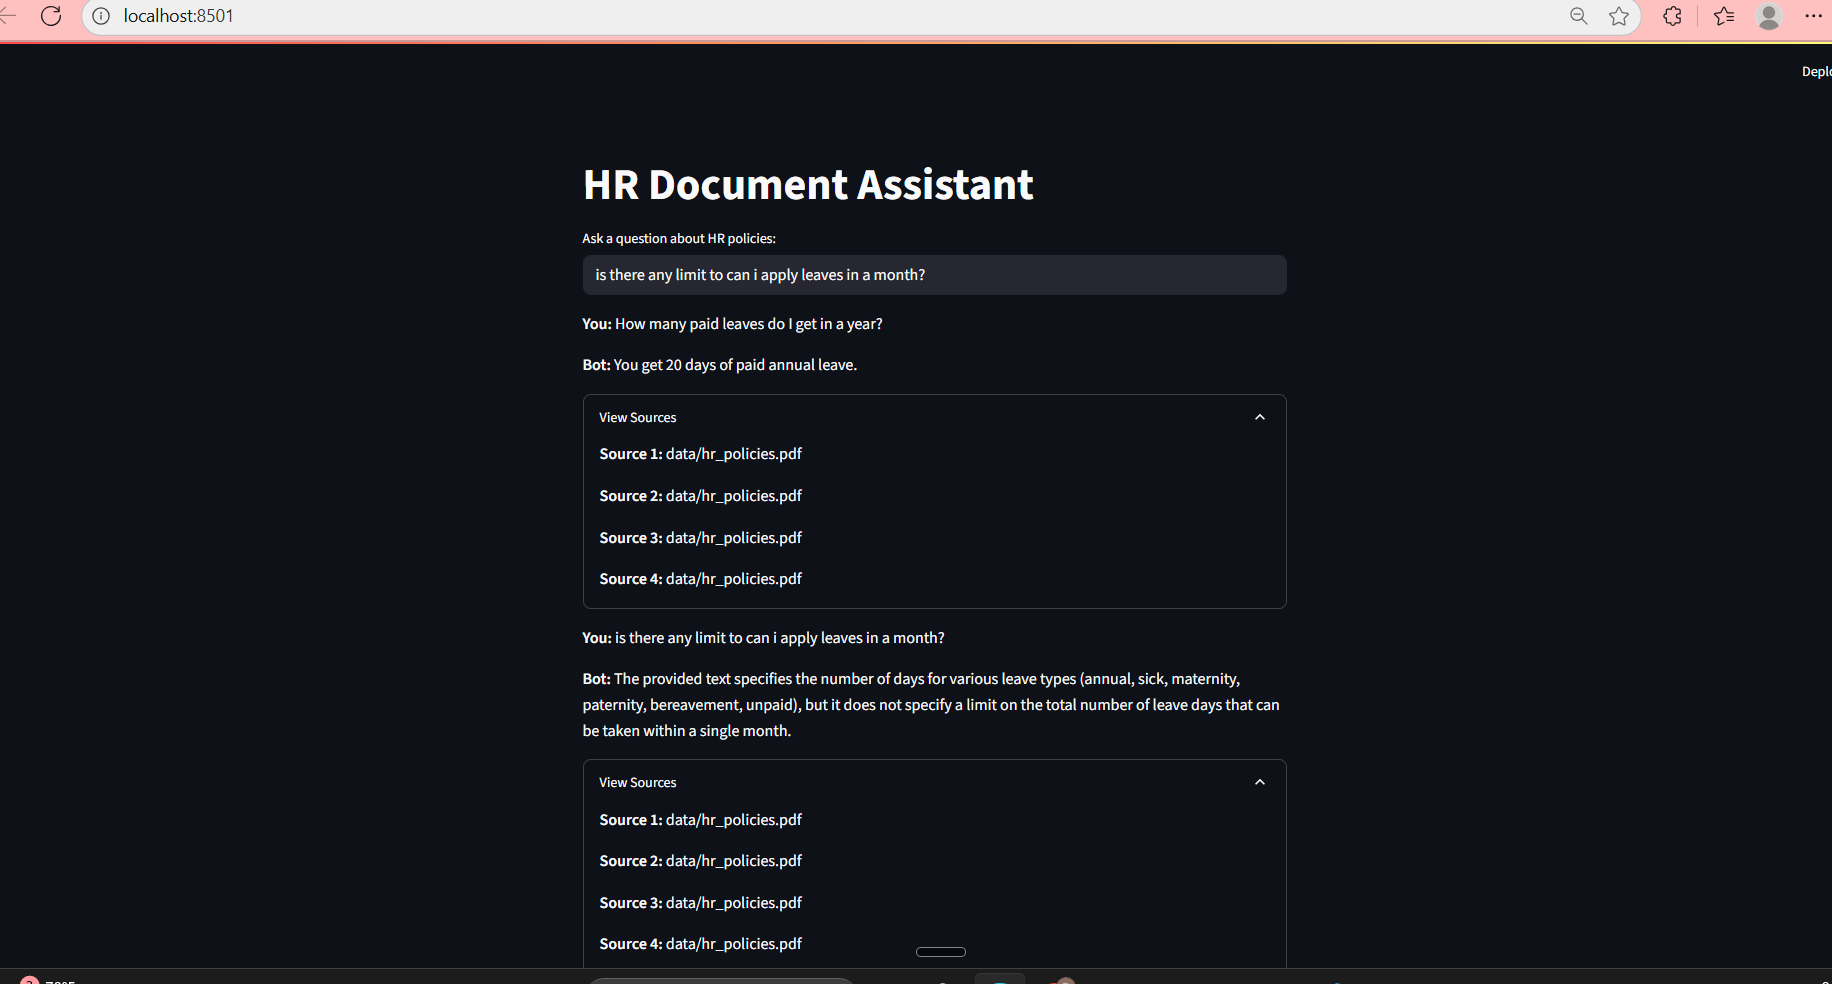
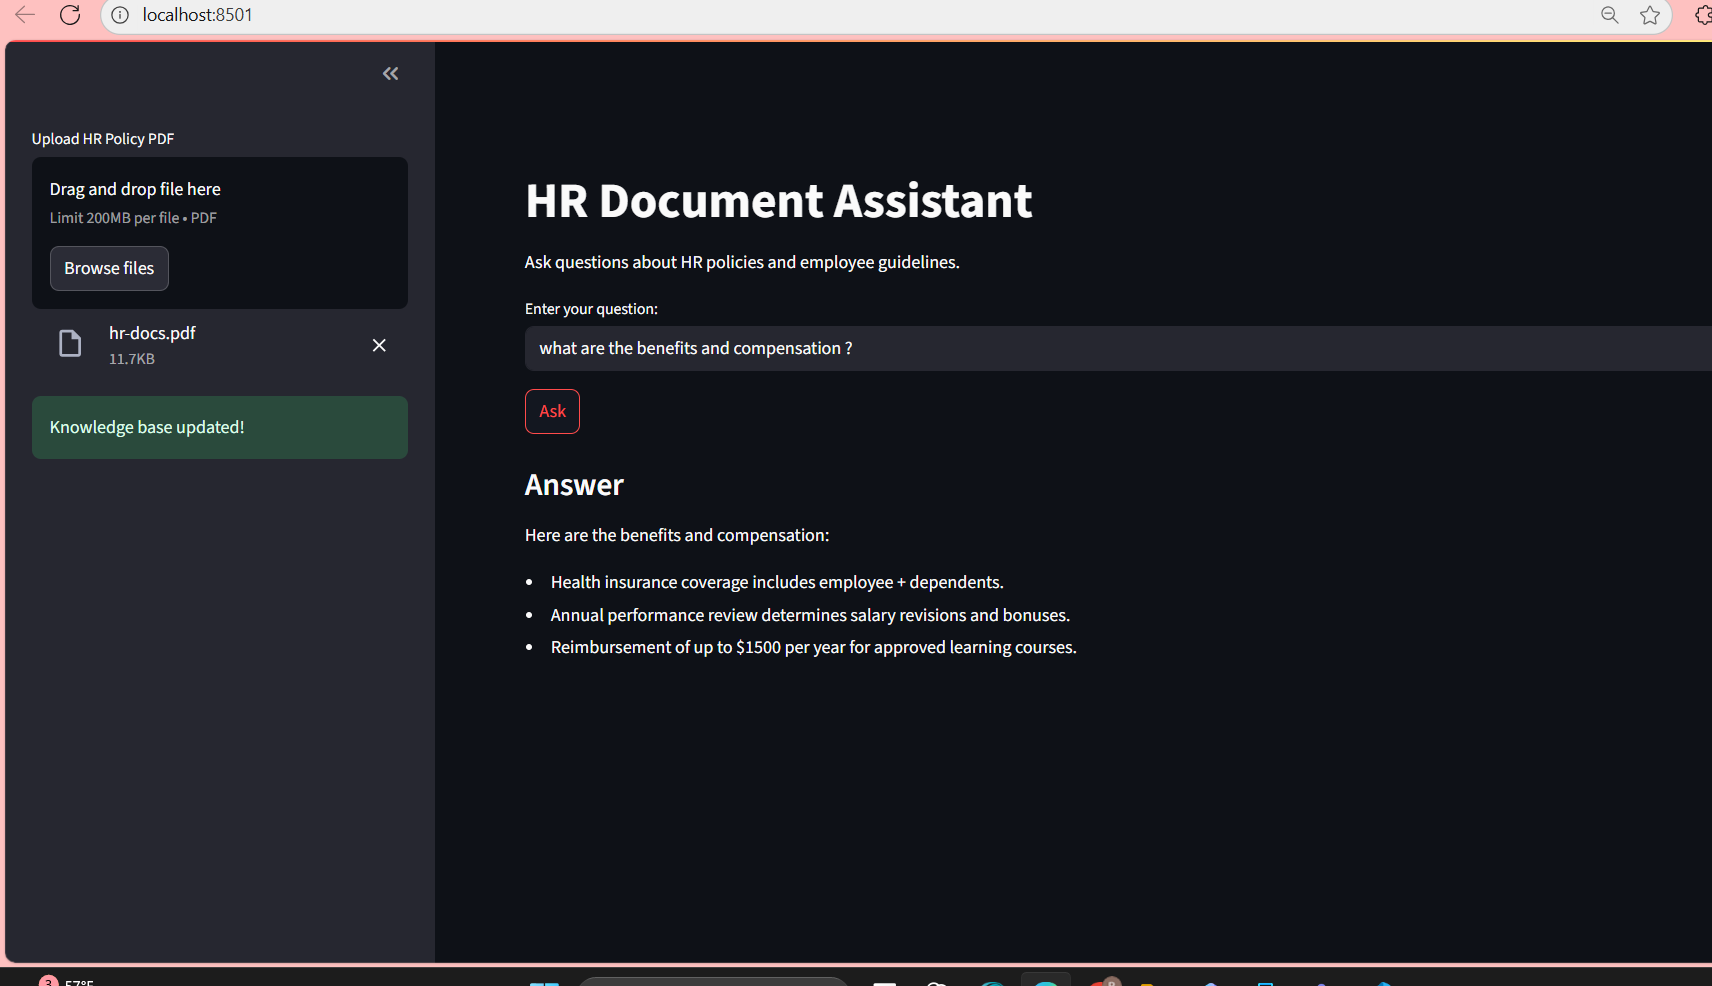
Updated with modular pipeline structur

diff --git a/app.py b/app.py
@@ -1,38 +1,40 @@
 import streamlit as st
-from rag_chain import get_chain
+from backend.ingest import create_vector_store
+from backend.rag_chain import create_rag_chain
+import os
 
-st.set_page_config(page_title="HR Assistant", layout="centered")
+st.set_page_config(page_title="HR Document Assistant", page_icon="💼", layout="wide")
+st.markdown("""
+<style>
+.stTextInput, .stButton>button {font-size:16px;}
+h1 {color:#0a66c2;}
+</style>
+""", unsafe_allow_html=True)
+
+
 st.title("HR Document Assistant")
+st.markdown("Ask questions about HR policies and employee guidelines.")
 
 # Initialize session state
-if "chain" not in st.session_state:
-    st.session_state.chain = get_chain()
+if "qa_chain" not in st.session_state:
+    st.session_state.qa_chain = create_rag_chain()
 
-if "chat_history" not in st.session_state:
-    st.session_state.chat_history = []
+uploaded = st.sidebar.file_uploader("Upload HR Policy PDF", type=["pdf"])
+if uploaded:
+    temp_path = os.path.join("data", uploaded.name)
+    with open(temp_path, "wb") as f:
+        f.write(uploaded.read())
+    create_vector_store(temp_path)
+    st.session_state.qa_chain = create_rag_chain()
+    st.sidebar.success("Knowledge base updated!")
 
-# Input box
-user_input = st.text_input("Ask a question about HR policies:")
+question = st.text_input("Enter your question:")
 
-# Run chain
-if user_input:
-    result = st.session_state.chain.invoke({
-        "question": user_input,
-        "chat_history": st.session_state.chat_history
-    })
+if st.button("Ask") and question:
+    result = st.session_state.qa_chain({"query": question})
+    st.write("### Answer")
+    st.write(result["result"])
 
-    response = result["answer"]
-    sources = result.get("source_documents", [])
-
-    st.session_state.chat_history.append((user_input, response, sources))
-
-    # Display chat history
-    for q, a, src in st.session_state.chat_history:
-        st.markdown(f"**You:** {q}")
-        st.markdown(f"**Bot:** {a}")
-
-        # Show sources if available
-        if src:
-            with st.expander("View Sources"):
-                for i, doc in enumerate(src, 1):
-                    st.markdown(f"**Source {i}:** {doc.metadata.get('source', 'Unknown file')}")
+    with st.expander("View referenced policy sections"):
+        for i, doc in enumerate(result["source_documents"], 1):
+            st.markdown(f"**Source {i}:** {doc.page_content[:400]}...")

diff --git a/backend/rag_chain.py b/backend/rag_chain.py
@@ -1,0 +1,32 @@
+from langchain.chains import RetrievalQA
+from langchain.prompts import PromptTemplate
+from langchain.vectorstores import FAISS
+from langchain_community.embeddings import HuggingFaceEmbeddings
+from backend.llm import get_llm
+
+def load_vector_store(index_path: str = "faiss_index"):
+    """Load existing FAISS index."""
+    embeddings = HuggingFaceEmbeddings(model_name="sentence-transformers/all-MiniLM-L6-v2")
+    return FAISS.load_local(index_path, embeddings, allow_dangerous_deserialization=True)
+
+def create_rag_chain():
+    """Biuld RAG Pipeline."""
+    llm = get_llm()
+    db = load_vector_store()
+    retriever = db.as_retriever(search_kwargs={"k":3})
+
+    template = """
+    You are an HR assistant. Use the following context to answer the question.
+    Context: {context}
+    Question: {question}
+    Provide a clear, factual answer.
+    """
+
+    prompt = PromptTemplate(template=template, input_variables=["context", "question"])
+
+    return RetrievalQA.from_chain_type(
+        llm=llm,
+        retriever=retriever,
+        chain_type="stuff",  
+        chain_type_kwargs={"prompt": prompt}
+    )

diff --git a/backend/ingest.py b/backend/ingest.py
@@ -1,0 +1,21 @@
+import os
+from langchain.document_loaders import PyPDFLoader
+from langchain.text_splitter import RecursiveCharacterTextSplitter
+from langchain_community.embeddings import HuggingFaceEmbeddings
+from langchain.vectorstores import FAISS
+
+
+def create_vector_store(pdf_path: str, index_path: str = "faiss_index"):
+    """Load and embed HR documents into a FAISS index."""
+    loader = PyPDFLoader(pdf_path)
+    docs = loader.load()
+
+    # Split into smaller chunks
+    splitter = RecursiveCharacterTextSplitter(chunk_size=500, chunk_overlap=50)
+    chunks = splitter.split_documents(docs)
+
+    # load the Embedding Model
+    embeddings = HuggingFaceEmbeddings(model_name="sentence-transformers/all-MiniLM-L6-v2")
+    db = FAISS.from_documents(chunks, embeddings)
+    db.save_local(index_path)
+    return db

diff --git a/backend/llm.py b/backend/llm.py
@@ -5,8 +5,10 @@ from langchain_google_genai import ChatGoogleGenerativeAI
 load_dotenv()
 
 def get_llm():
+    """Initialize and return the Gemini model."""
+
     return ChatGoogleGenerativeAI(
-        model="models/gemini-1.5-flash",
-        temparature=0.3,
+        model="models/gemini-2.5-flash",
+        temparature=0.2,
         convert_system_massage_to_human=True
     )

diff --git a/README.md b/README.md
@@ -1,14 +1,7 @@
 # 🧾 HR Document Assistant
 
-A Generative AI-powered HR Knowledge Assistant that can answer HR policy questions from your internal documents.
-
-This project demonstrates a Retrieval-Augmented Generation (RAG) pipeline with LangChain, FAISS, and Streamlit, capable of:
-
-1. Multi-turn conversations with memory
-
-2. Answering queries over PDF HR policies
-
-3. Providing source documents for traceability
+A Retrieval-Augmented Generation (RAG) chatbot that answers HR-policy questions
+using company documents as context.
 
 ## Project Screenshot
 
@@ -39,23 +32,28 @@ This project demonstrates a Retrieval-Augmented Generation (RAG) pipeline with L
 - Streamlit – For web-based UI
 
 ## Folder Structure
+hr-assistant/
+│
 ├── app.py
-├── rag_chain.py
-├── ingest.py
-├── llm.py
+├── backend/
+│   ├── ingest.py
+│   ├── llm.py
+│   └── rag_chain.py
 ├── data/
-│ └── hr_policies.pdf
-├── faiss_index/
-│ ├── index.faiss
-│ └── index.pkl
-├── .env
-└── requirements.txt
+│   └── hr_policies.pdf
+├── screenshots/
+│   └── hr_bot_demo.png
+├── requirements.txt
+├── .env.example
+└── README.md
 
 ## Run Locally
 ```bash
 pip install -r requirements.txt
 streamlit run app.py 
 ```
+## 🌐 Demo
+*(add your Streamlit Cloud or Hugging Face Spaces link)*
 
 ## Use Case
 ```
